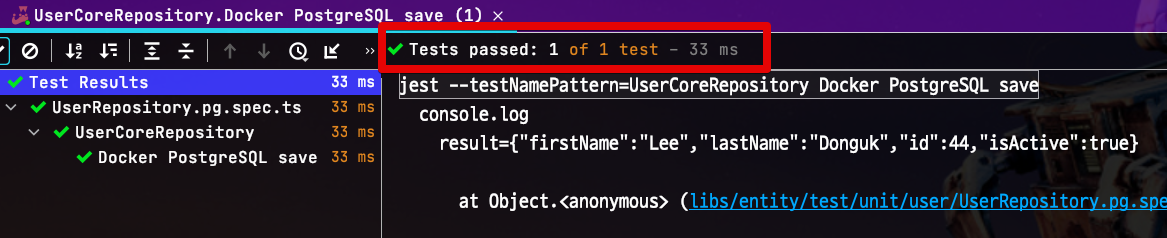
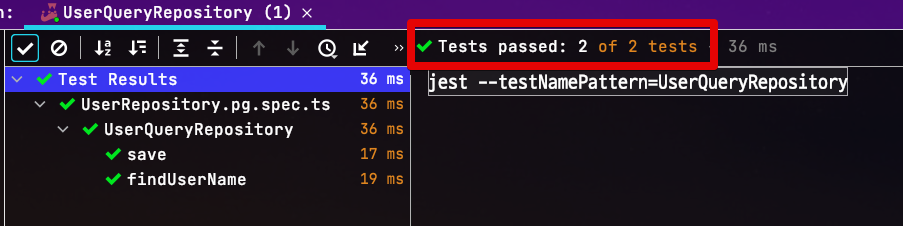
2장 끝

diff --git a/libs/entity/test/unit/user/UserRepository.pg.spec.ts b/libs/entity/test/unit/user/UserRepository.pg.spec.ts
@@ -3,15 +3,18 @@ import { User } from '@app/entity/user/User.entity';
 import { Repository } from 'typeorm';
 import { UserModule } from '@app/entity/user/UserModule';
 import { getPgTestTypeOrmModule } from '../../../getPgTestTypeOrmModule';
+import { UserQueryRepository } from '@app/entity/user/UserQueryRepository';
 
-describe('UserCoreRepository', () => {
+describe('UserQueryRepository', () => {
   let userRepository: Repository<User>;
+  let userQueryRepository: UserQueryRepository;
 
   beforeAll(async () => {
     const module: TestingModule = await Test.createTestingModule({
       imports: [UserModule, getPgTestTypeOrmModule()],
     }).compile();
 
+    userQueryRepository = module.get<UserQueryRepository>(UserQueryRepository);
     userRepository = module.get('UserRepository');
   });
 
@@ -19,7 +22,23 @@ describe('UserCoreRepository', () => {
     await userRepository.clear();
   });
 
-  it('Docker PostgreSQL save', async () => {
+  it('save', async () => {
+    // given
+    const firstName = 'Lee';
+    const lastName = 'Donguk';
+    const user = new User();
+    user.firstName = firstName;
+    user.lastName = lastName;
+
+    // when
+    const savedUser = await userRepository.save(user);
+
+    // then
+    expect(savedUser.id).toBeGreaterThanOrEqual(1);
+  });
+
+  it('findUserName', async () => {
+    // given
     const firstName = 'Lee';
     const lastName = 'Donguk';
     const user = new User();
@@ -27,7 +46,10 @@ describe('UserCoreRepository', () => {
     user.lastName = lastName;
     const savedUser = await userRepository.save(user);
 
-    console.log(`result=${JSON.stringify(savedUser)}`);
-    expect(savedUser.id).toBeGreaterThanOrEqual(1);
+    // when
+    const result = await userQueryRepository.findUserName(savedUser.id);
+
+    // then
+    expect(result.getFullName()).toBe(`${firstName} ${lastName}`);
   });
 });

diff --git a/posts/2/README.md b/posts/2/README.md
@@ -9,8 +9,13 @@
 필요한 패키지들을 먼저 추가합니다.
 
 ```bash
-yarn add @nestjs/typeorm typeorm pg
+yarn add @nestjs/typeorm typeorm pg typeorm-naming-strategies class-transformer
 ```
+
+* `typeorm-naming-strategies`
+  * [TypeORM에서 Camelcase 필드를 Snake 컬럼에 매핑하기](https://jojoldu.tistory.com/568) 를 위해 사용됩니다. 
+* `class-transformer`
+  * Entity Json을 Dto Instance으로 편하게 변환하기 위해 사용합니다.
 
 그리고 TypeORM과 연동되어 로컬에서 실행할 PostgreSQL DB를 위해 `docker-compose.yml` 파일을 아래와 같이 생성합니다.
 
@@ -106,6 +111,9 @@ export class UserName {
 }
 ```
 
+* `getFullName`
+  * `FullName`의 경우 `User` 에서 꼭 필요한 항목은 아니지만, 특정 화면/API에서는 필요한 항목이기 때문에 이처럼 별도의 Getter를 통해 생성합니다. 
+
 **libs/entity/src/user/UserModule**
 
 ```typescript
@@ -118,7 +126,8 @@ export class UserName {
 export class UserModule {}
 ```
 
-
+여기서는 DataMapper 패턴을 사용하는데요.  
+  
 이미 다들 아시겠지만, TypeORM에서는 2가지 패턴을 지원합니다.
 
 * Active Record 패턴
@@ -173,7 +182,8 @@ ticket.cancel();
 
 > 다음편에서 `sqlite`를 통해 별도의 도커 실행 없이 단위 테스트를 진행하겠습니다.
 
-그리고 로컬에서 실행한 도커 PostgreSQL에 접근하기 위해 Config 파일을 하나 만들어두겠습니다.
+그리고 로컬에서 실행한 도커 PostgreSQL에 접근하기 위해 Config 파일을 하나 만들어두겠습니다.  
+(테스트와 실제 로컬에서 실행하는 것의 환경을 분리합니다.)
 
 ![pg-config](./images/pg-config.png)
 
@@ -202,33 +212,62 @@ export function getPgTestTypeOrmModule() {
 **libs/entity/test/unit/user/UserRepository.pg.spec.ts**
 
 ```typescript
-describe('UserRepository PG', () => {
+describe('UserQueryRepository', () => {
   let userRepository: Repository<User>;
+  let userQueryRepository: UserQueryRepository;
 
   beforeAll(async () => {
     const module: TestingModule = await Test.createTestingModule({
       imports: [UserModule, getPgTestTypeOrmModule()],
     }).compile();
 
+    userQueryRepository = module.get<UserQueryRepository>(UserQueryRepository);
     userRepository = module.get('UserRepository');
   });
 
-  beforeEach(async () => {
+  afterEach(async () => {
     await userRepository.clear();
   });
 
-  it('Docker PostgreSQL save', async () => {
+  it('save', async () => {
+    // given
     const firstName = 'Lee';
     const lastName = 'Donguk';
     const user = new User();
     user.firstName = firstName;
     user.lastName = lastName;
+
+    // when
     const savedUser = await userRepository.save(user);
 
-    console.log(`result=${JSON.stringify(savedUser)}`);
+    // then
     expect(savedUser.id).toBeGreaterThanOrEqual(1);
+  });
+
+  it('findUserName', async () => {
+    // given
+    const firstName = 'Lee';
+    const lastName = 'Donguk';
+    const user = new User();
+    user.firstName = firstName;
+    user.lastName = lastName;
+    await userRepository.save(user);
+
+    // when
+    const result = await userQueryRepository.findUserName(savedUser.id);
+
+    // then
+    expect(result.getFullName()).toBe(`${firstName} ${lastName}`);
   });
 });
 ```
 
+간단한 `save` 와 `findUserName` 모두 테스트가 통과 되는 것을 확인합니다.
+
 ![test-result1](./images/test-result1.png)
+
+## 4. 마무리
+
+이번 시간에는 실제 도커를 통해 PostgreSQL을 실행후 TypeORM 기능을 검증해보았습니다.  
+다음 편에서는 매번 이렇게 도커를 실행해야지 테스트를 돌리는게 아니라,  
+간단한 인메모리 DB를 사용해서 별도의 도커 실행 없이 테스트를 수행하는 방법을 진행해보겠습니다.
